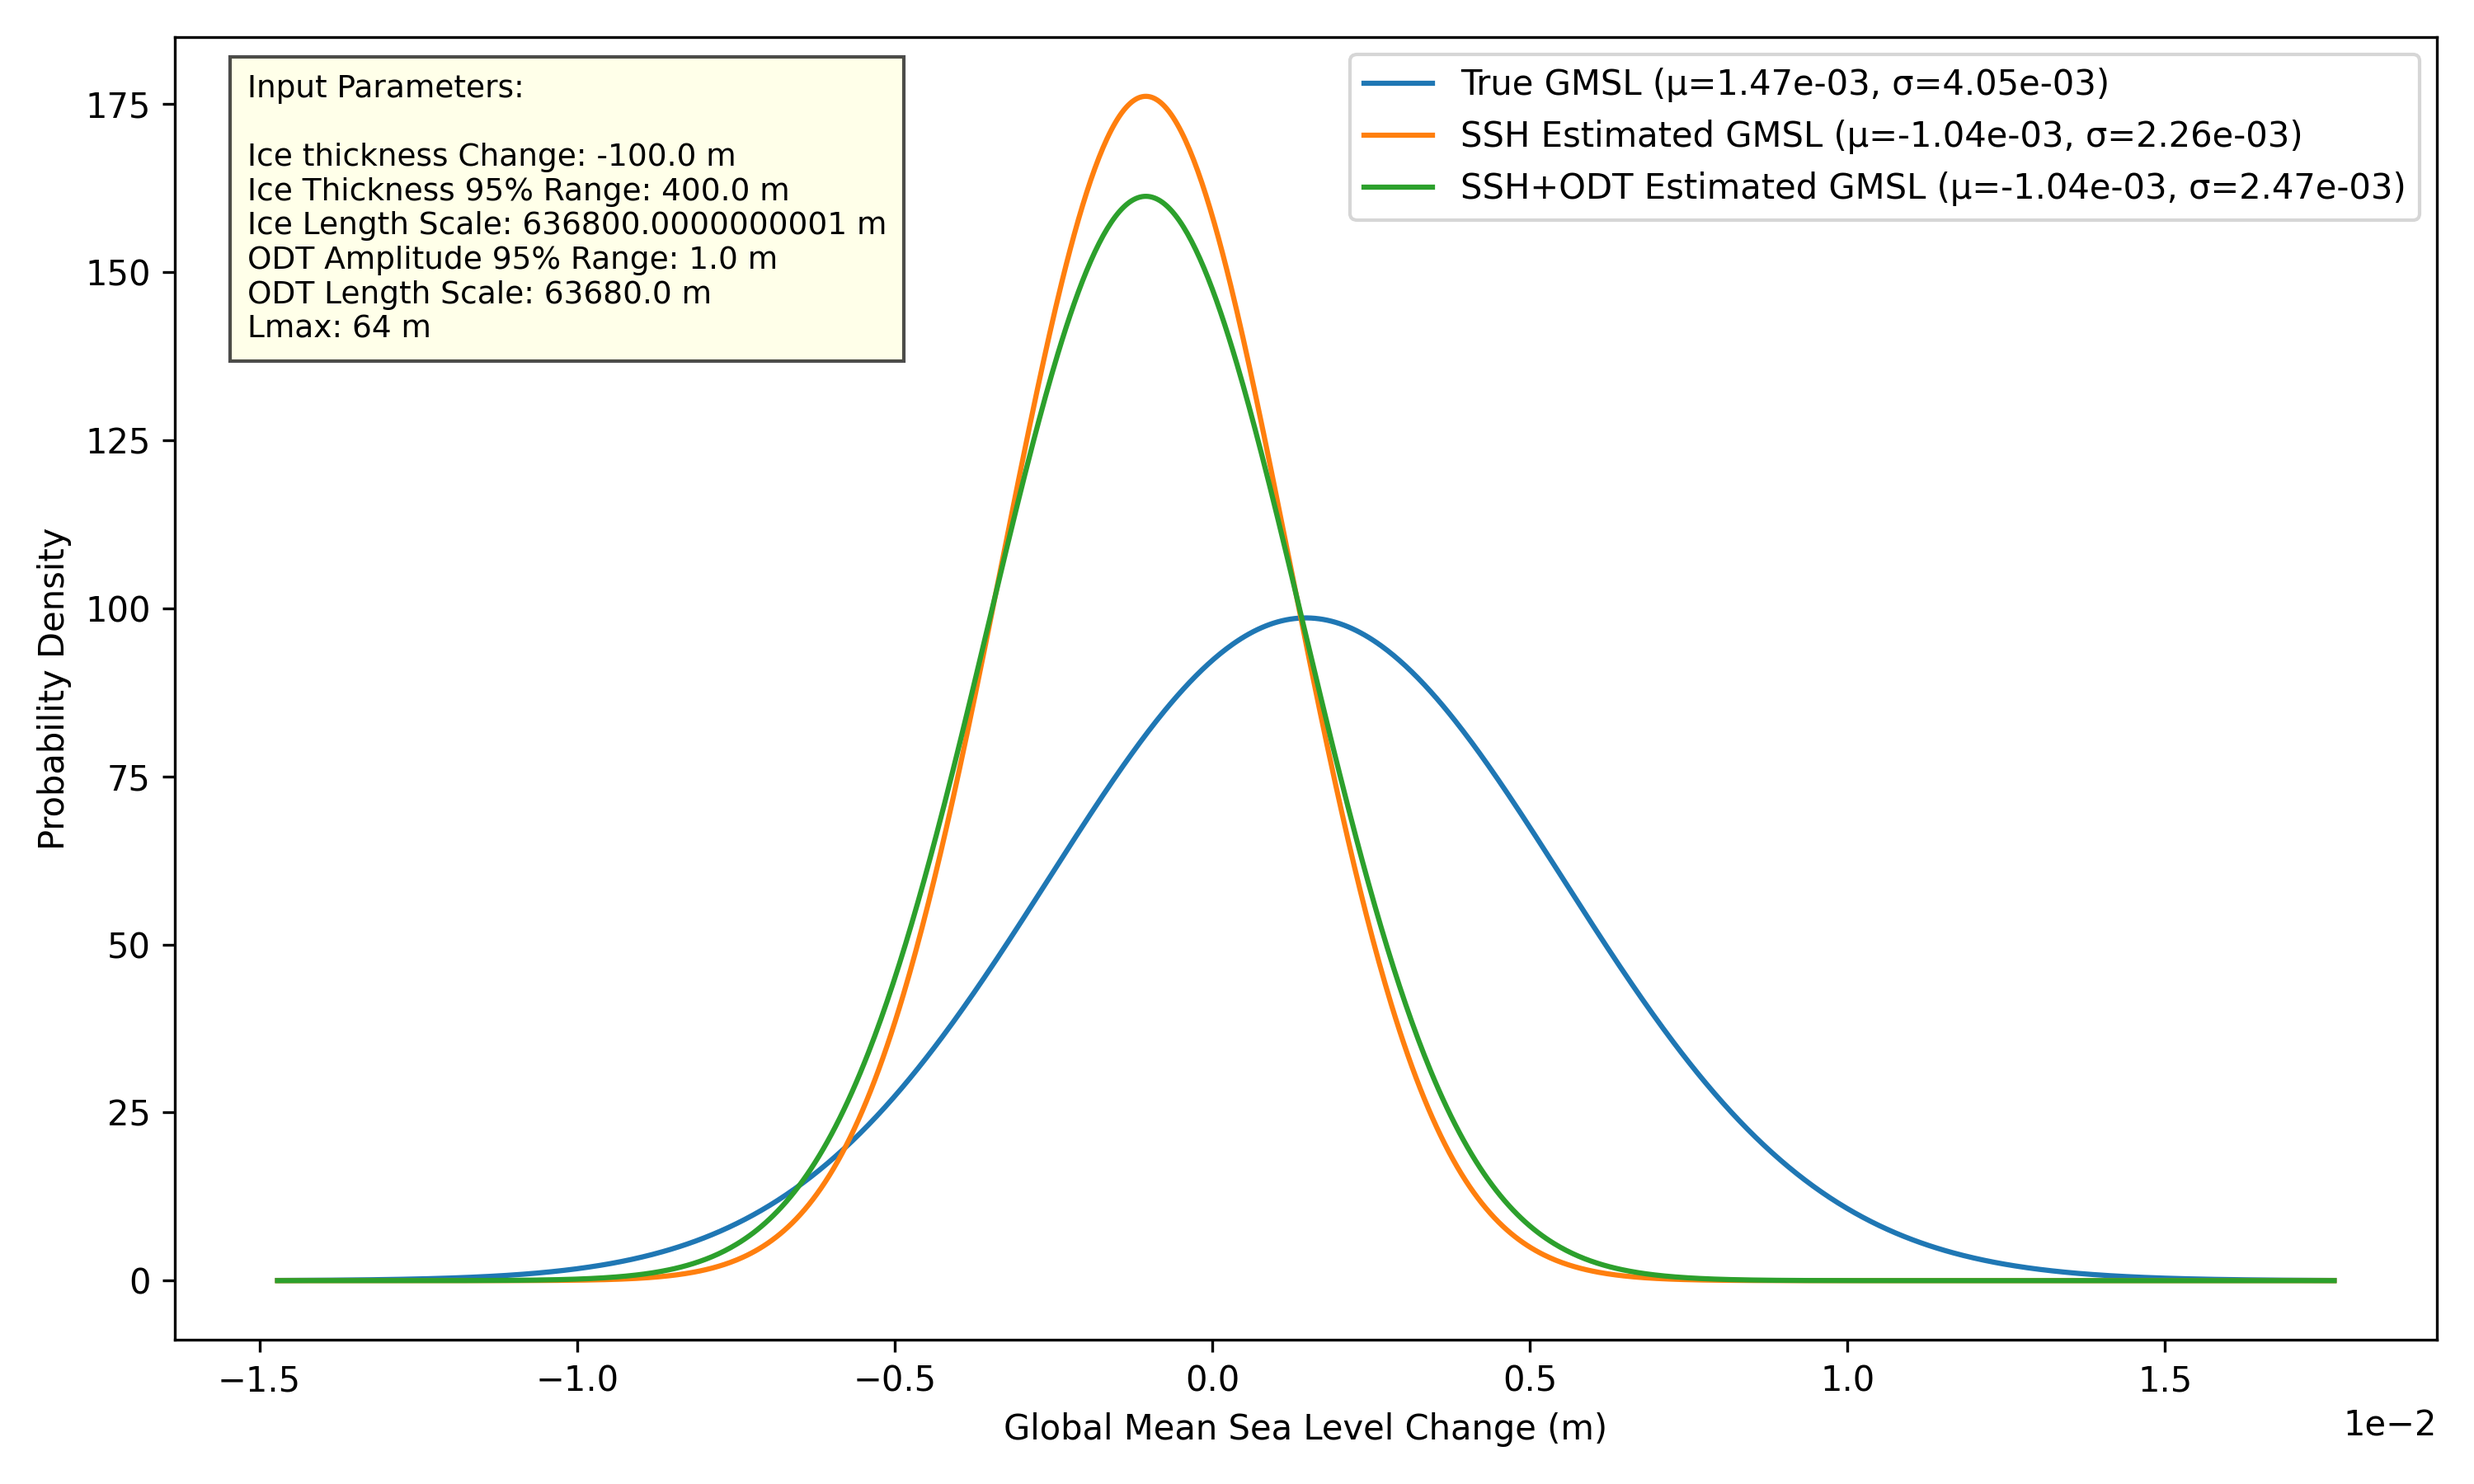
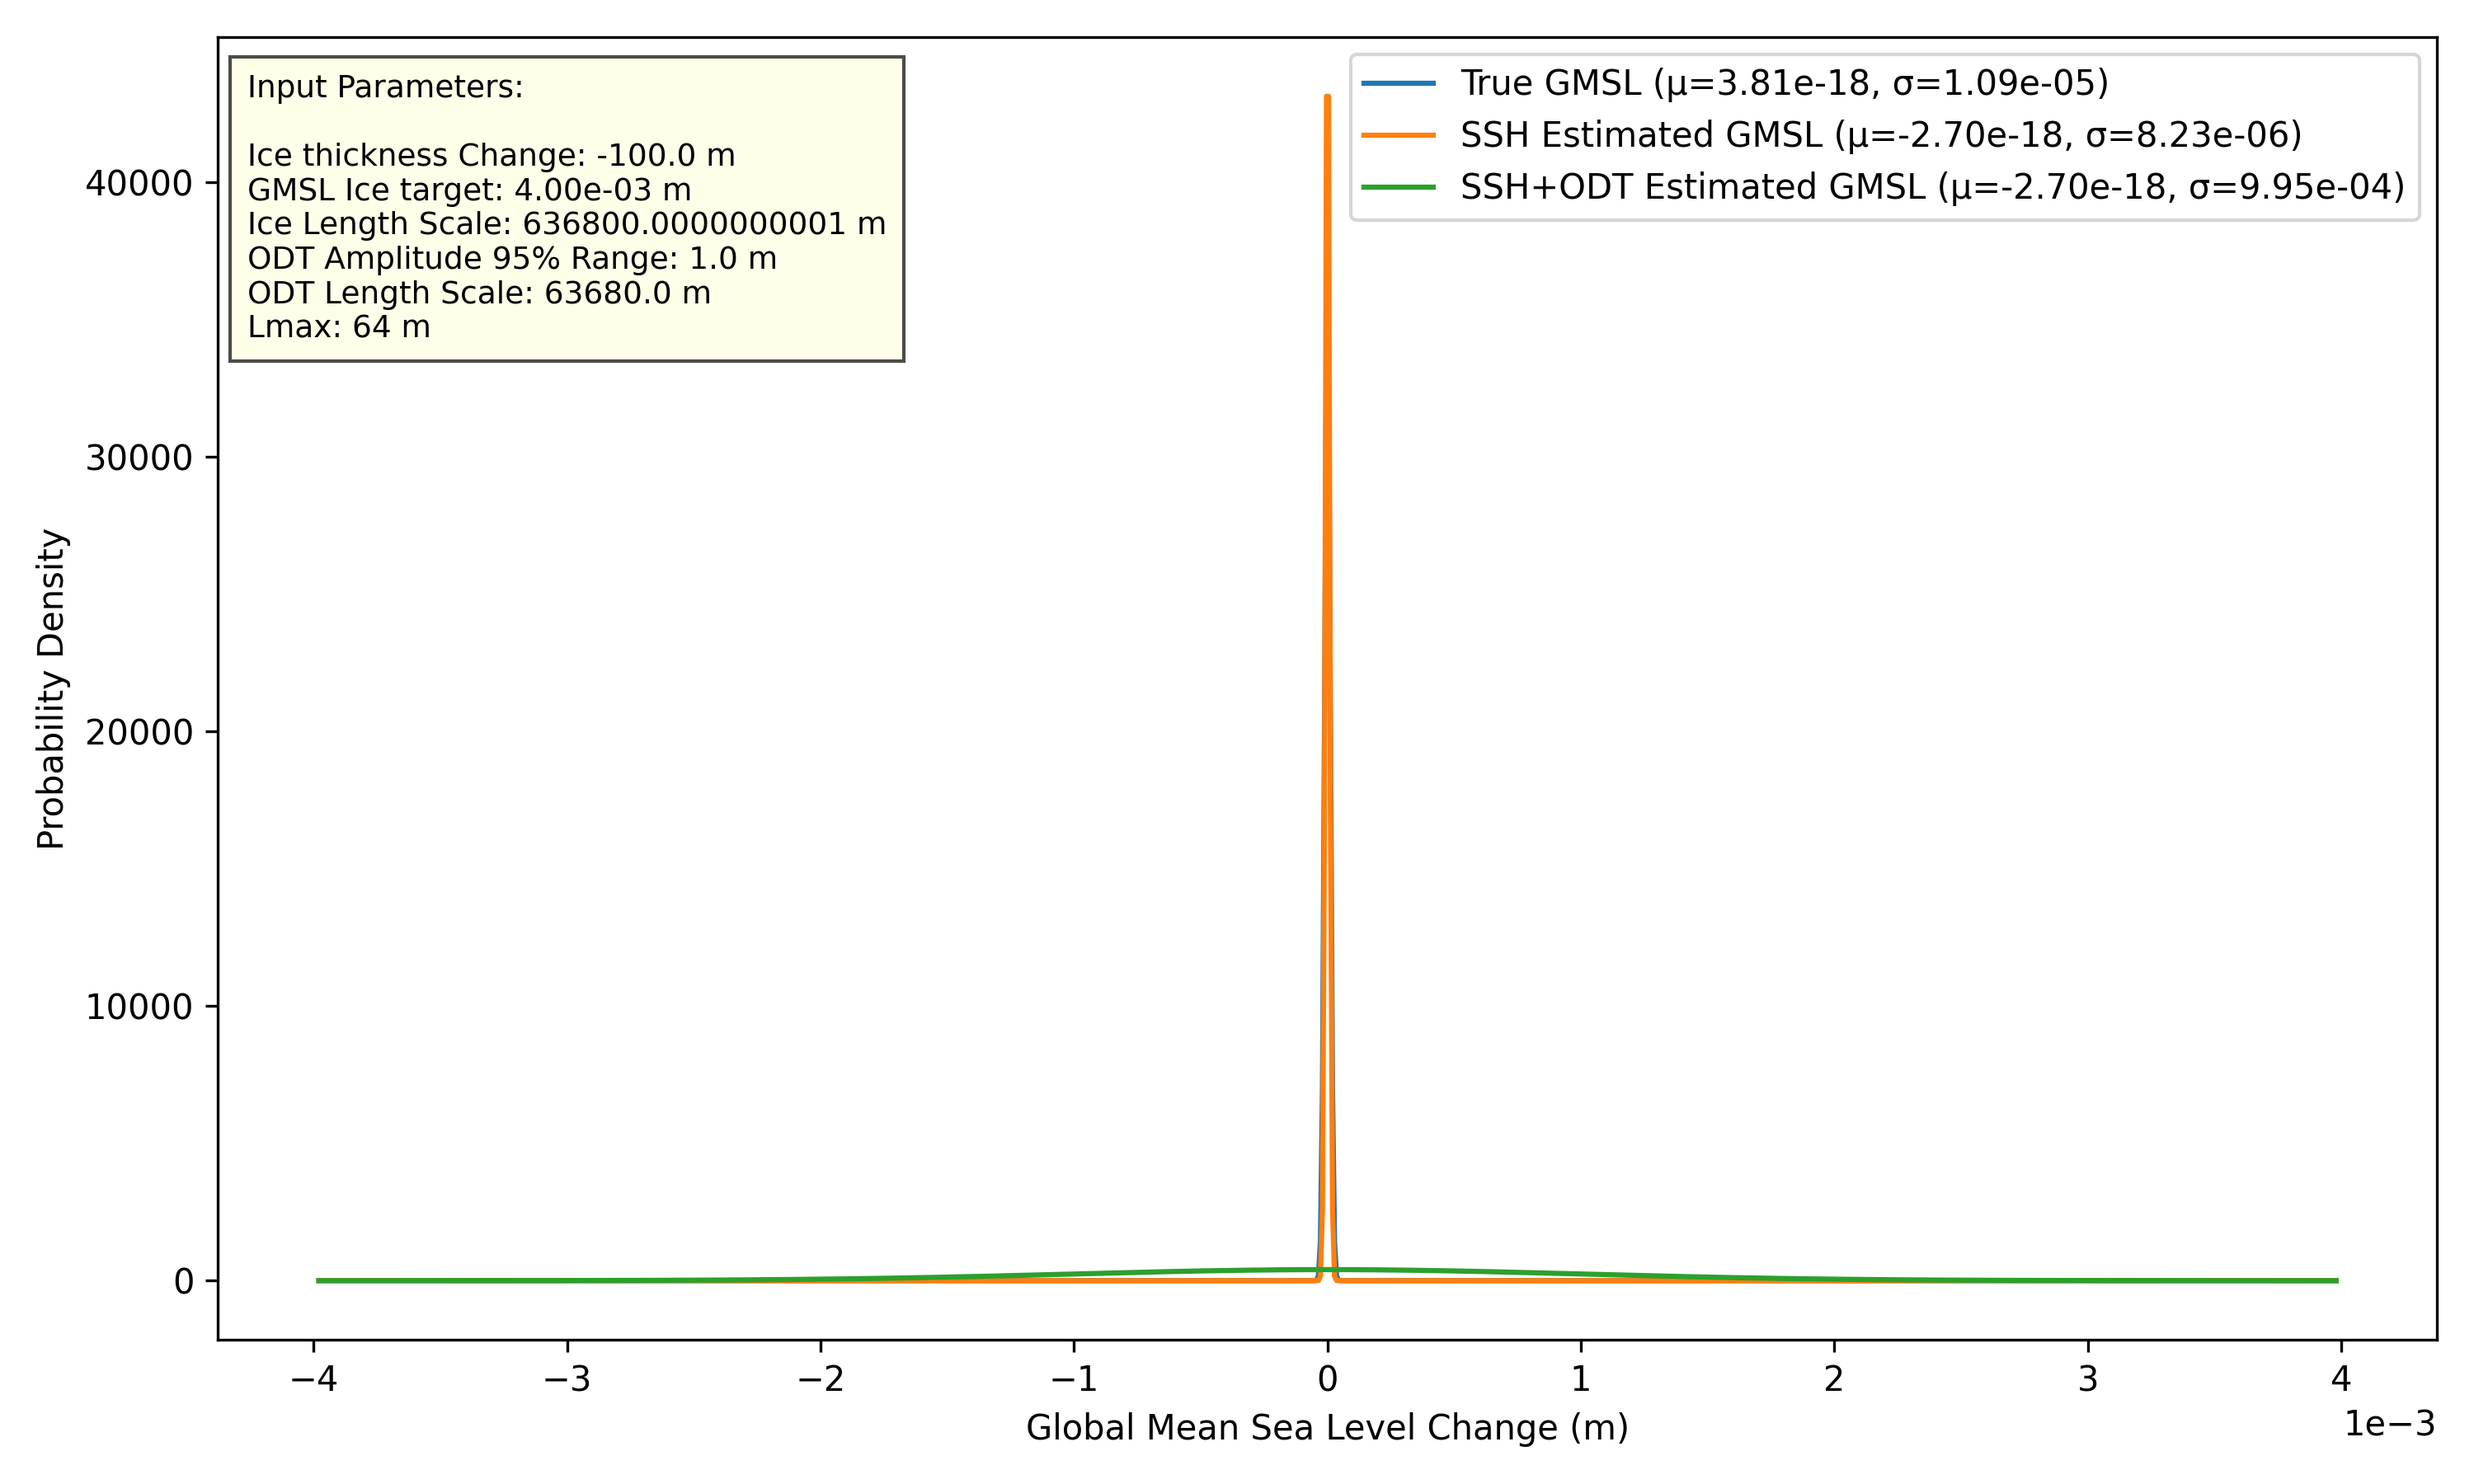
added some changes

diff --git a/src/Part_III_Project/measure_space/measures.py b/src/Part_III_Project/measure_space/measures.py
@@ -82,6 +82,18 @@ def ice_thickness_change_measures(
         fingerprint,
         fingerprint_operator.domain,
     )
+    if net_thickness_change != 0.0:
+        shift_vector = np.zeros(fingerprint_operator.domain.dim)
+        shift_vector[0] = (
+            net_thickness_change  # already non-dimensionalized
+        )
+        shift_vector = fingerprint_operator.domain.from_components(
+            shift_vector,
+        )
+        initial_ice_thickness_measure = initial_ice_thickness_measure.affine_mapping(
+            operator=fingerprint_operator.domain.identity_operator(),
+            translation=shift_vector,
+        )
     ice_thickness_measure = (
         initial_ice_thickness_measure.affine_mapping(
             operator=ice_projection,
@@ -106,25 +118,12 @@ def ice_thickness_change_measures(
 
     # Normalise the ice load thickness measure and then recompute the load measure
     ice_thickness_measure *= ice_gmsl_target_std / GMSL_std
-
-    if net_thickness_change != 0.0:
-        shift_vector = np.zeros(fingerprint_operator.domain.dim)
-        shift_vector[0] = (
-            net_thickness_change  # already non-dimensionalized
-        )
-        shift_vector = fingerprint_operator.domain.from_components(
-            shift_vector,
-        )
-        ice_thickness_measure = ice_thickness_measure.affine_mapping(
-            operator=fingerprint_operator.domain.identity_operator(),
-            translation=shift_vector,
-        )
-    # ice_thickness_measure = ice_thickness_measure.affine_mapping(
-    #     operator=ice_projection_operator(
-    #         fingerprint,
-    #         fingerprint_operator.domain,
-    #     ),
-    # )
+    ice_thickness_measure = ice_thickness_measure.affine_mapping(
+        operator=ice_projection_operator(
+            fingerprint,
+            fingerprint_operator.domain,
+        ),
+    )
     ice_load_measure = ice_thickness_measure.affine_mapping(
         operator=ice_thickness_change_to_load_operator(
             finger_print=fingerprint,

diff --git a/work/5-distribution_mapping/single_value_example.py b/work/5-distribution_mapping/single_value_example.py
@@ -15,7 +15,7 @@ from Part_III_Project import (
 
 # --- Control switches ---
 projection_plots = False  # Set to False to disable projection plots
-lmax = 32
+lmax = 64
 # --- Set up a fingerprint instance ---
 fp = sl.FingerPrint(
     lmax=lmax,
@@ -37,7 +37,9 @@ odt_amplitude_95_range = (
 )  # in units of sea level, non-dimensionalized
 
 ice_length_scale = 0.1 * fp.mean_sea_floor_radius
-ice_gmsl_target_std = 0.04  # in meters, non-dimensionalized
+ice_gmsl_target_std = (
+    0.004 / fp.length_scale
+)  # in meters, non-dimensionalized
 net_ice_thickness_change = (
     -100.0 / fp.length_scale
 )  # in meters, non-dimensionalized
